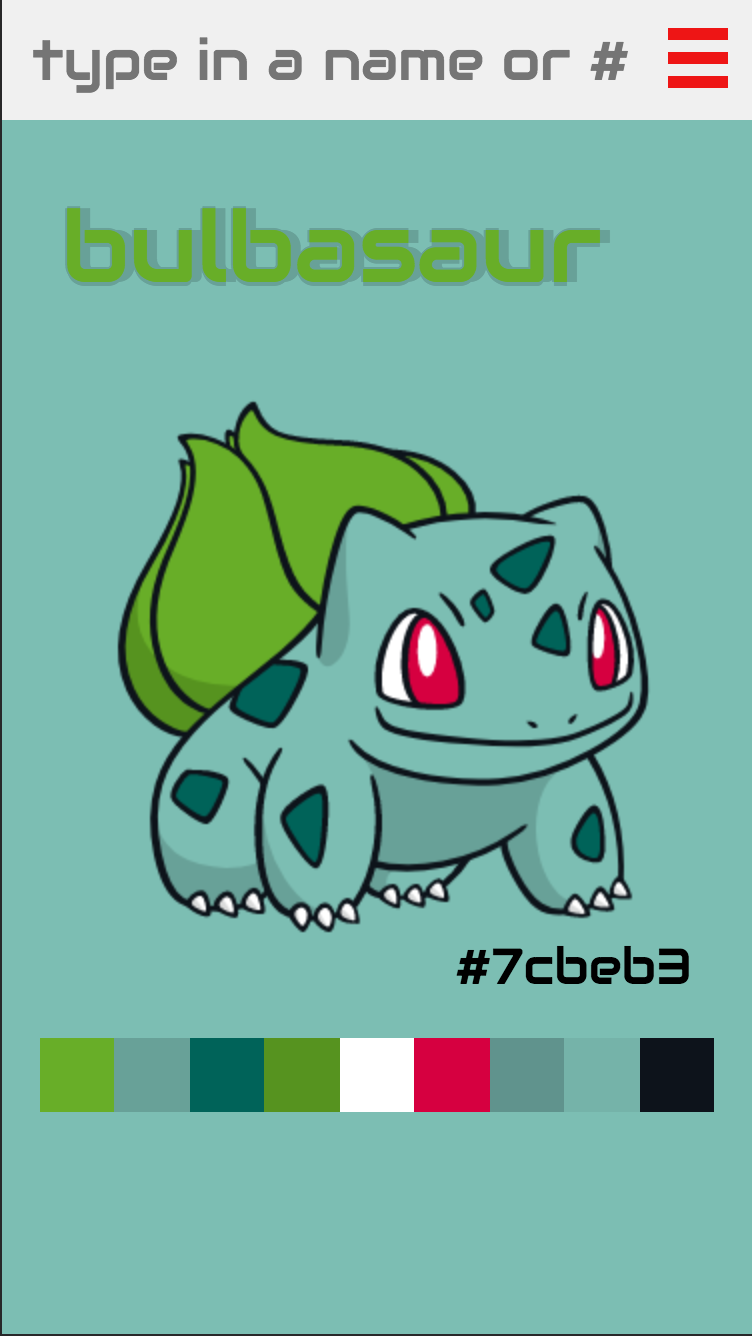
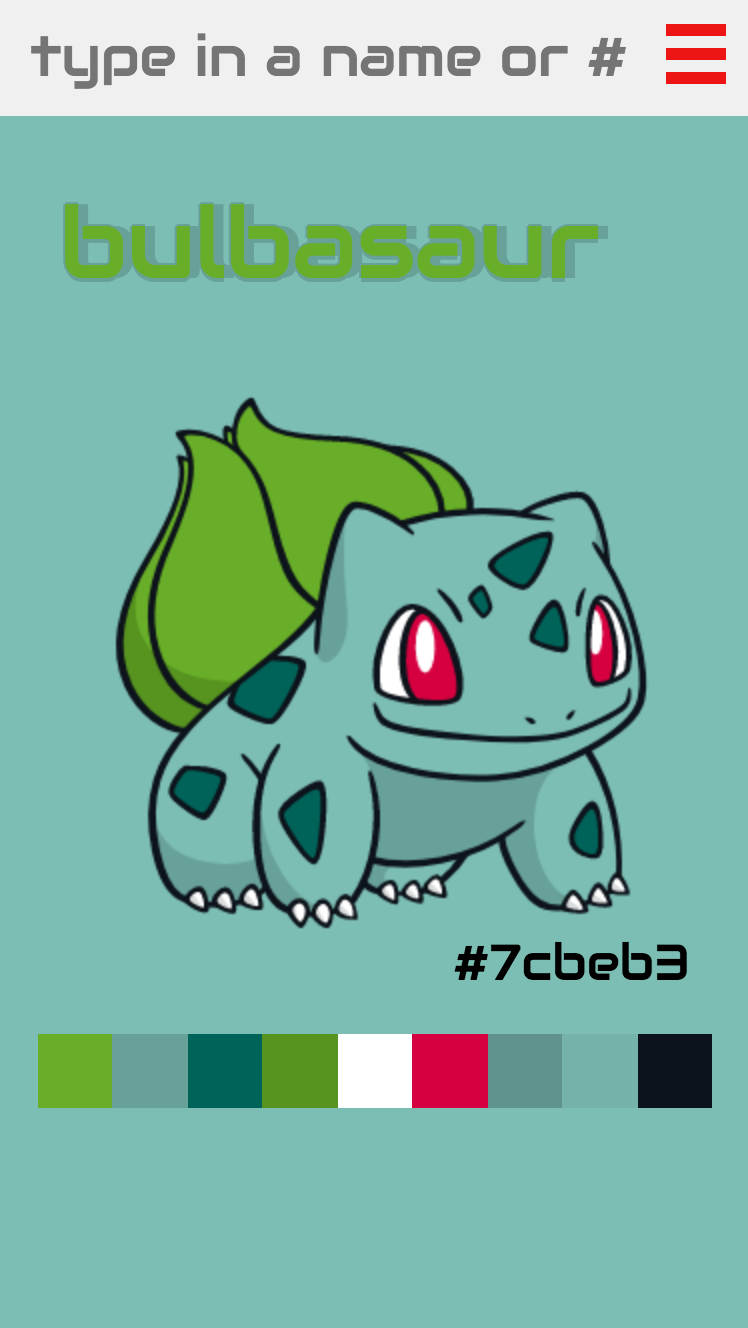
add new iphone6 screenshot

diff --git a/README.md b/README.md
@@ -1,4 +1,3 @@
 # Cartoon Palettes
 
-![desktop-view](./docs/images/desktop.png)
-![mobile-view](./docs/images/iphone6.png)
+![desktop-view](./docs/images/desktop.png)![mobile-view](./docs/images/iphone6.png)
